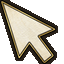
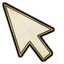
0.32.1: smoother pointers — soft edge drawn at full size, a margin so the tail is not cut, stepwise filtered shrink
Claude-Session: https://claude.ai/code/session_01YYVmoea2wLgzN484L9txEM

diff --git a/src/ui/cursors.ts b/src/ui/cursors.ts
@@ -32,8 +32,8 @@ export function applyCursors(style: CursorStyle) {
   if (style === 'system') { for (const k of ['--cur', '--cur-hot', '--cur-sight', '--cur-glass', '--cur-helm']) r.removeProperty(k); return; }
   // The brass-and-ivory arrow (and its red twin over anything clickable) is a picture, sharp on high-density screens.
   const pic = (f: string, fallback: string) => (hiDpi
-    ? `image-set(url("/ui/${f}.png") 1x, url("/ui/${f}@2x.png") 2x) 1 1, url("/ui/${f}.png") 1 1, ${fallback}`
-    : `url("/ui/${f}.png") 1 1, ${fallback}`);
+    ? `image-set(url("/ui/${f}.png") 1x, url("/ui/${f}@2x.png") 2x) 2 2, url("/ui/${f}.png") 2 2, ${fallback}`
+    : `url("/ui/${f}.png") 2 2, ${fallback}`);
   r.setProperty('--cur', style === 'quill' ? url('quill', 'auto') : pic('cursor', 'auto'));
   r.setProperty('--cur-hot', style === 'quill' ? url('quill', 'pointer') : pic('cursor_hot', 'pointer'));
   r.setProperty('--cur-sight', url('sight', 'crosshair'));
